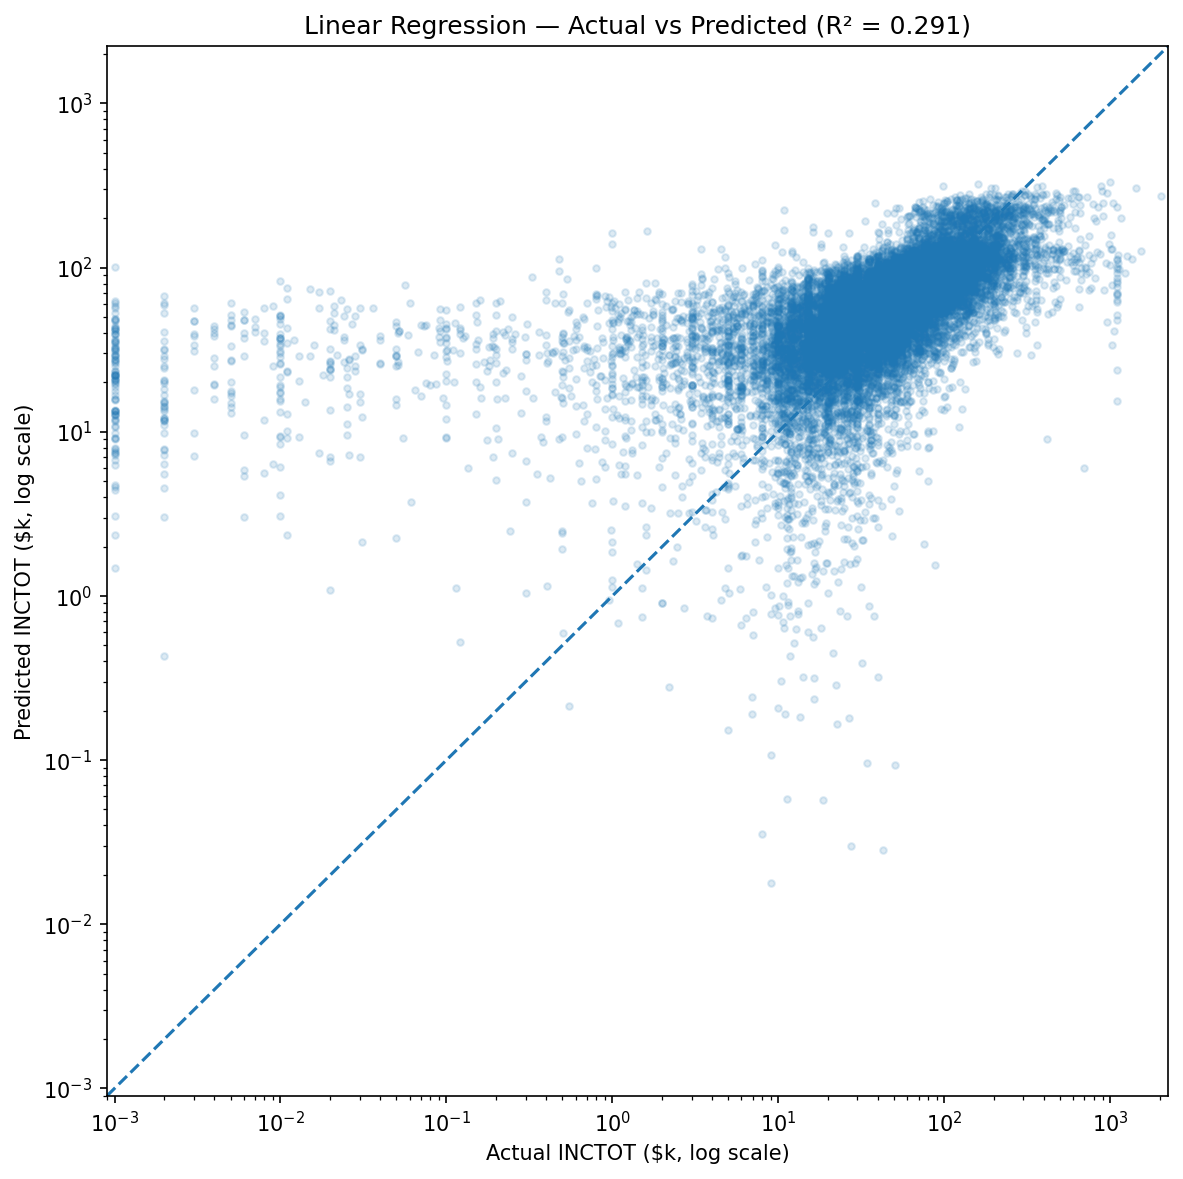
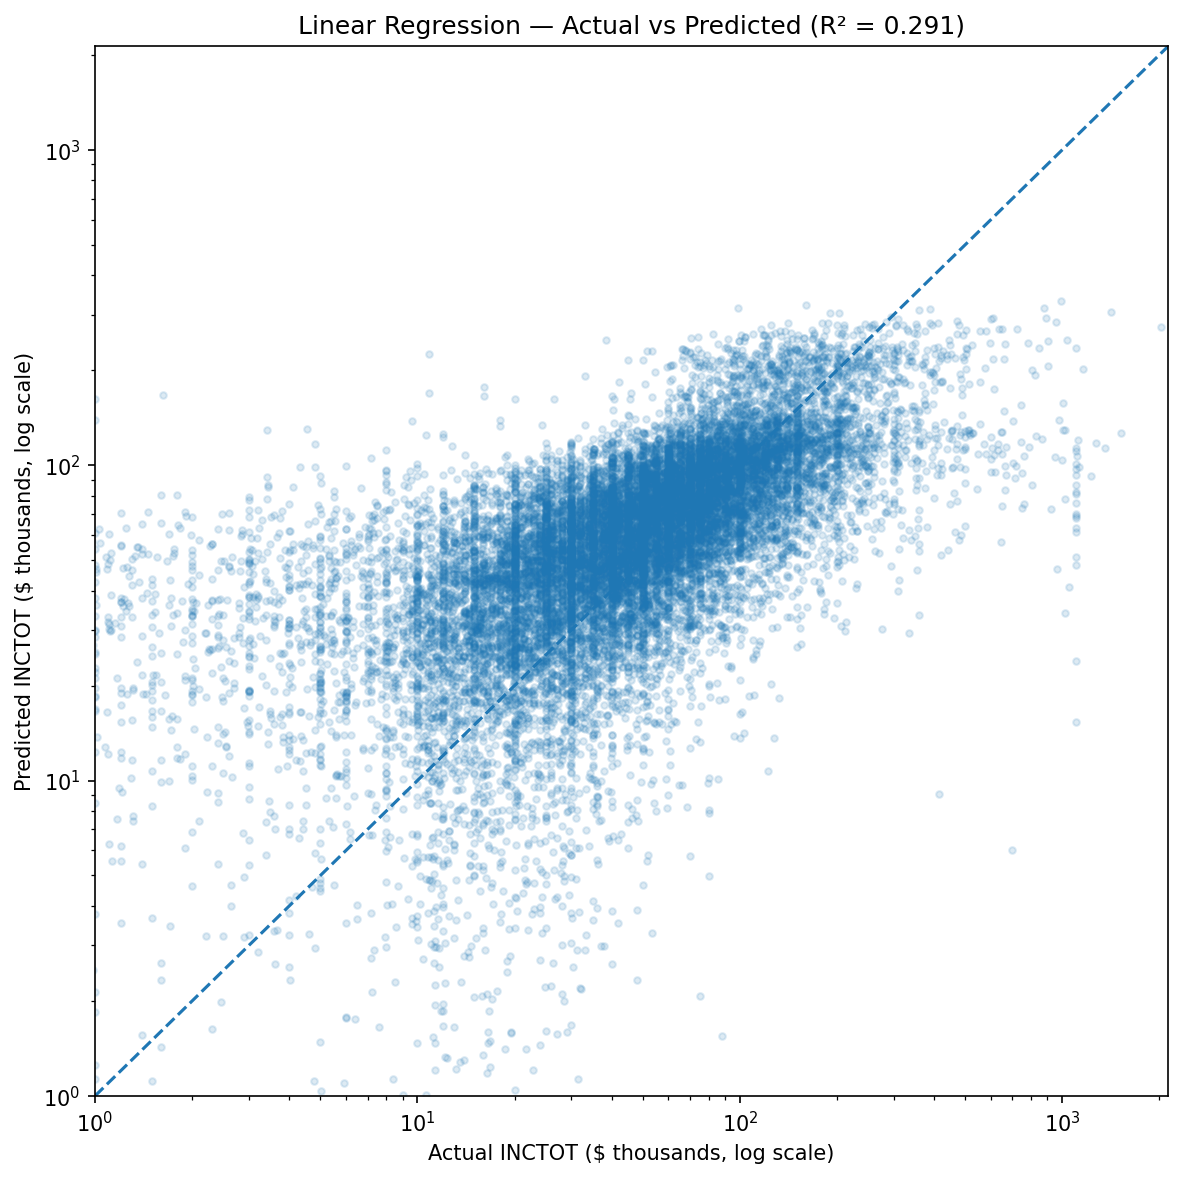
Update linear regression section and outputs

diff --git a/src/models/model_linear.py b/src/models/model_linear.py
@@ -5,6 +5,7 @@ import numpy as np
 import pandas as pd
 from sklearn.linear_model import LinearRegression
 from sklearn.metrics import mean_absolute_error, mean_squared_error, r2_score
+from sklearn.preprocessing import StandardScaler
 
 
 def save_results(results_dir: Path, mse: float, rmse: float, mae: float, r2: float) -> None:
@@ -24,20 +25,53 @@ def save_results(results_dir: Path, mse: float, rmse: float, mae: float, r2: flo
         file.write(results_text)
 
 
-def plot_actual_vs_predicted(figures_dir: Path, y_test: pd.Series, y_pred: np.ndarray, r2: float) -> None:
-    """Save a cleaner actual vs predicted plot using only positive predictions."""
+def save_feature_importance_table(
+    results_dir: Path,
+    feature_names: pd.Index,
+    coefficients: np.ndarray
+) -> pd.DataFrame:
+    """
+    Save standardized coefficient-based feature importance table.
+    For linear regression, after standardizing X, absolute coefficient size
+    is a reasonable way to compare relative importance across features.
+    """
+    results_dir.mkdir(parents=True, exist_ok=True)
+
+    importance_df = pd.DataFrame({
+        "feature": feature_names,
+        "coefficient": coefficients,
+        "abs_coefficient": np.abs(coefficients)
+    }).sort_values("abs_coefficient", ascending=False)
+
+    importance_df.to_csv(results_dir / "lr_feature_importance.csv", index=False)
+    importance_df.head(5).to_csv(results_dir / "lr_top5_features.csv", index=False)
+
+    return importance_df
+
+
+def plot_actual_vs_predicted(
+    figures_dir: Path,
+    y_test: pd.Series,
+    y_pred: np.ndarray,
+    r2: float
+) -> None:
+    """
+    Save actual vs predicted plot.
+    Axes are forced to start above zero for a cleaner presentation.
+    """
     figures_dir.mkdir(parents=True, exist_ok=True)
 
-    actual_k = y_test / 1000
+    actual_k = y_test.to_numpy() / 1000
     pred_k = y_pred / 1000
 
-    # Keep only positive predictions for log-scale plotting
-    mask = pred_k > 0
+    # Keep only positive values for presentation
+    mask = (actual_k > 0) & (pred_k > 0)
     actual_k = actual_k[mask]
     pred_k = pred_k[mask]
 
-    lim_low = min(actual_k.min(), pred_k.min()) * 0.9
-    lim_high = max(actual_k.max(), pred_k.max()) * 1.1
+    # Use positive lower bound so plot never starts at/below zero
+    lim_low = max(min(actual_k.min(), pred_k.min()) * 0.95, 1)
+    lim_high = max(actual_k.max(), pred_k.max()) * 1.05
 
     plt.figure(figsize=(8, 8))
     plt.scatter(actual_k, pred_k, alpha=0.15, s=10)
@@ -46,19 +80,26 @@ def plot_actual_vs_predicted(figures_dir: Path, y_test: pd.Series, y_pred: np.nd
     plt.yscale("log")
     plt.xlim(lim_low, lim_high)
     plt.ylim(lim_low, lim_high)
-    plt.xlabel("Actual INCTOT ($k, log scale)")
-    plt.ylabel("Predicted INCTOT ($k, log scale)")
+    plt.xlabel("Actual INCTOT ($ thousands, log scale)")
+    plt.ylabel("Predicted INCTOT ($ thousands, log scale)")
     plt.title(f"Linear Regression — Actual vs Predicted (R² = {r2:.3f})")
     plt.tight_layout()
     plt.savefig(figures_dir / "lr_actual_vs_predicted.png", dpi=150, bbox_inches="tight")
     plt.close()
 
 
-def plot_residuals(figures_dir: Path, y_test: pd.Series, y_pred: np.ndarray) -> None:
-    """Save residual plot."""
+def plot_residuals(
+    figures_dir: Path,
+    y_test: pd.Series,
+    y_pred: np.ndarray
+) -> None:
+    """
+    Save residual plot.
+    Residuals should cross zero, so we keep the horizontal zero line.
+    """
     figures_dir.mkdir(parents=True, exist_ok=True)
 
-    residuals = y_test - y_pred
+    residuals = y_test.to_numpy() - y_pred
 
     plt.figure(figsize=(8, 6))
     plt.scatter(y_pred, residuals, alpha=0.3, s=10)
@@ -71,8 +112,30 @@ def plot_residuals(figures_dir: Path, y_test: pd.Series, y_pred: np.ndarray) -> 
     plt.close()
 
 
+def plot_feature_importance_top24(
+    figures_dir: Path,
+    importance_df: pd.DataFrame
+) -> None:
+    """
+    Plot top 24 features ranked by absolute standardized coefficient.
+    """
+    figures_dir.mkdir(parents=True, exist_ok=True)
+
+    top24 = importance_df.head(24).copy()
+    top24 = top24.sort_values("abs_coefficient", ascending=True)
+
+    plt.figure(figsize=(10, 9))
+    plt.barh(top24["feature"], top24["abs_coefficient"])
+    plt.xlabel("Absolute Standardized Coefficient")
+    plt.ylabel("Feature")
+    plt.title("Linear Regression — Top 24 Feature Importances")
+    plt.tight_layout()
+    plt.savefig(figures_dir / "lr_feature_importance_top24.png", dpi=150, bbox_inches="tight")
+    plt.close()
+
+
 def main():
-    """Train and evaluate a baseline linear regression model."""
+    """Train and evaluate a linear regression model with standardized predictors."""
     base_path = Path(__file__).resolve().parents[2]
     data_path = base_path / "data" / "processed"
     results_dir = base_path / "reports" / "results"
@@ -83,10 +146,17 @@ def main():
     y_train = pd.read_csv(data_path / "y_train.csv").squeeze()
     y_test = pd.read_csv(data_path / "y_test.csv").squeeze()
 
-    model = LinearRegression()
-    model.fit(X_train, y_train)
+    feature_names = X_train.columns
 
-    y_pred = model.predict(X_test)
+    # Standardize predictors so coefficients are comparable across variables
+    scaler = StandardScaler()
+    X_train_scaled = scaler.fit_transform(X_train)
+    X_test_scaled = scaler.transform(X_test)
+
+    model = LinearRegression()
+    model.fit(X_train_scaled, y_train)
+
+    y_pred = model.predict(X_test_scaled)
 
     mse = mean_squared_error(y_test, y_pred)
     rmse = mse ** 0.5
@@ -100,13 +170,27 @@ def main():
     print(f"R^2: {r2:.4f}")
 
     save_results(results_dir, mse, rmse, mae, r2)
+
+    importance_df = save_feature_importance_table(
+        results_dir=results_dir,
+        feature_names=feature_names,
+        coefficients=model.coef_
+    )
+
     plot_actual_vs_predicted(figures_dir, y_test, y_pred, r2)
     plot_residuals(figures_dir, y_test, y_pred)
+    plot_feature_importance_top24(figures_dir, importance_df)
+
+    print("\nTop 5 features by absolute standardized coefficient:")
+    print(importance_df.head(5)[["feature", "coefficient", "abs_coefficient"]])
 
     print("\nSaved files:")
     print(f"- {results_dir / 'results_lr.txt'}")
+    print(f"- {results_dir / 'lr_feature_importance.csv'}")
+    print(f"- {results_dir / 'lr_top5_features.csv'}")
     print(f"- {figures_dir / 'lr_actual_vs_predicted.png'}")
     print(f"- {figures_dir / 'lr_residual_plot.png'}")
+    print(f"- {figures_dir / 'lr_feature_importance_top24.png'}")
 
 
 if __name__ == "__main__":
